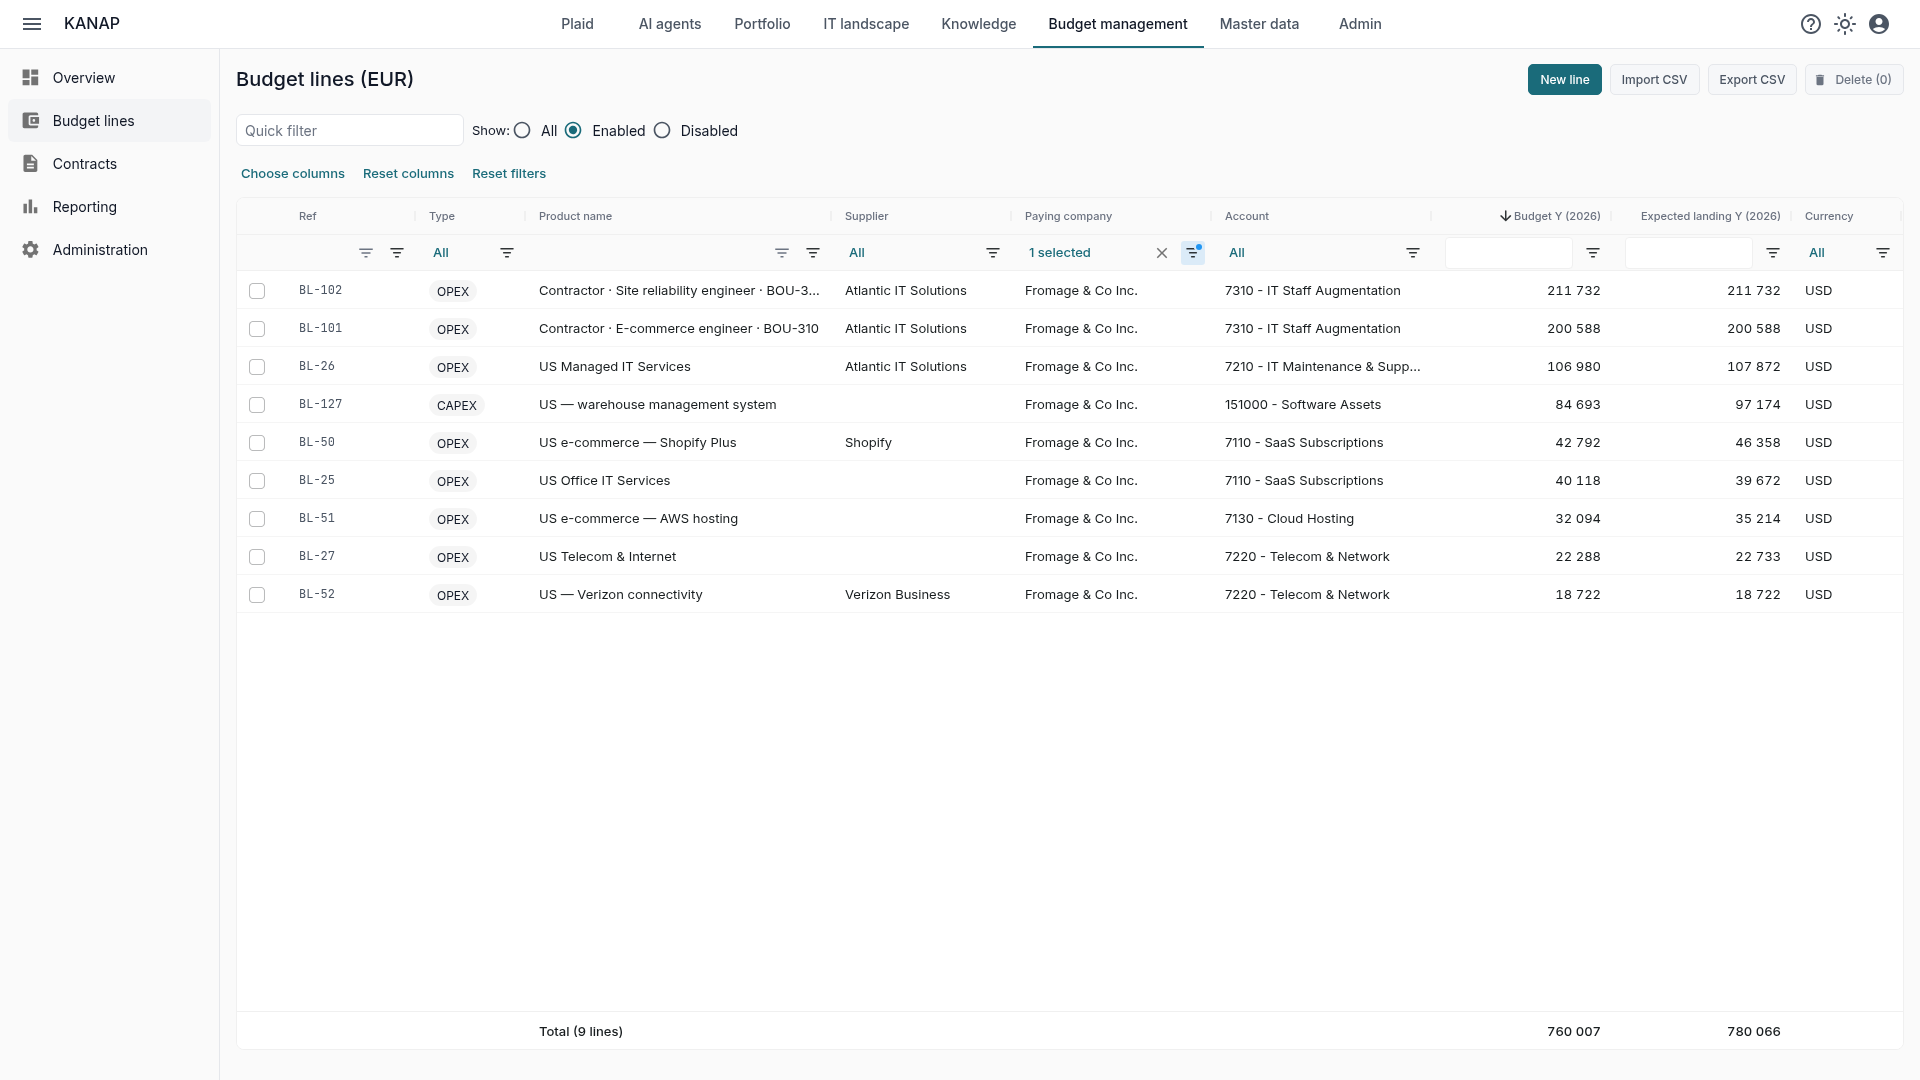
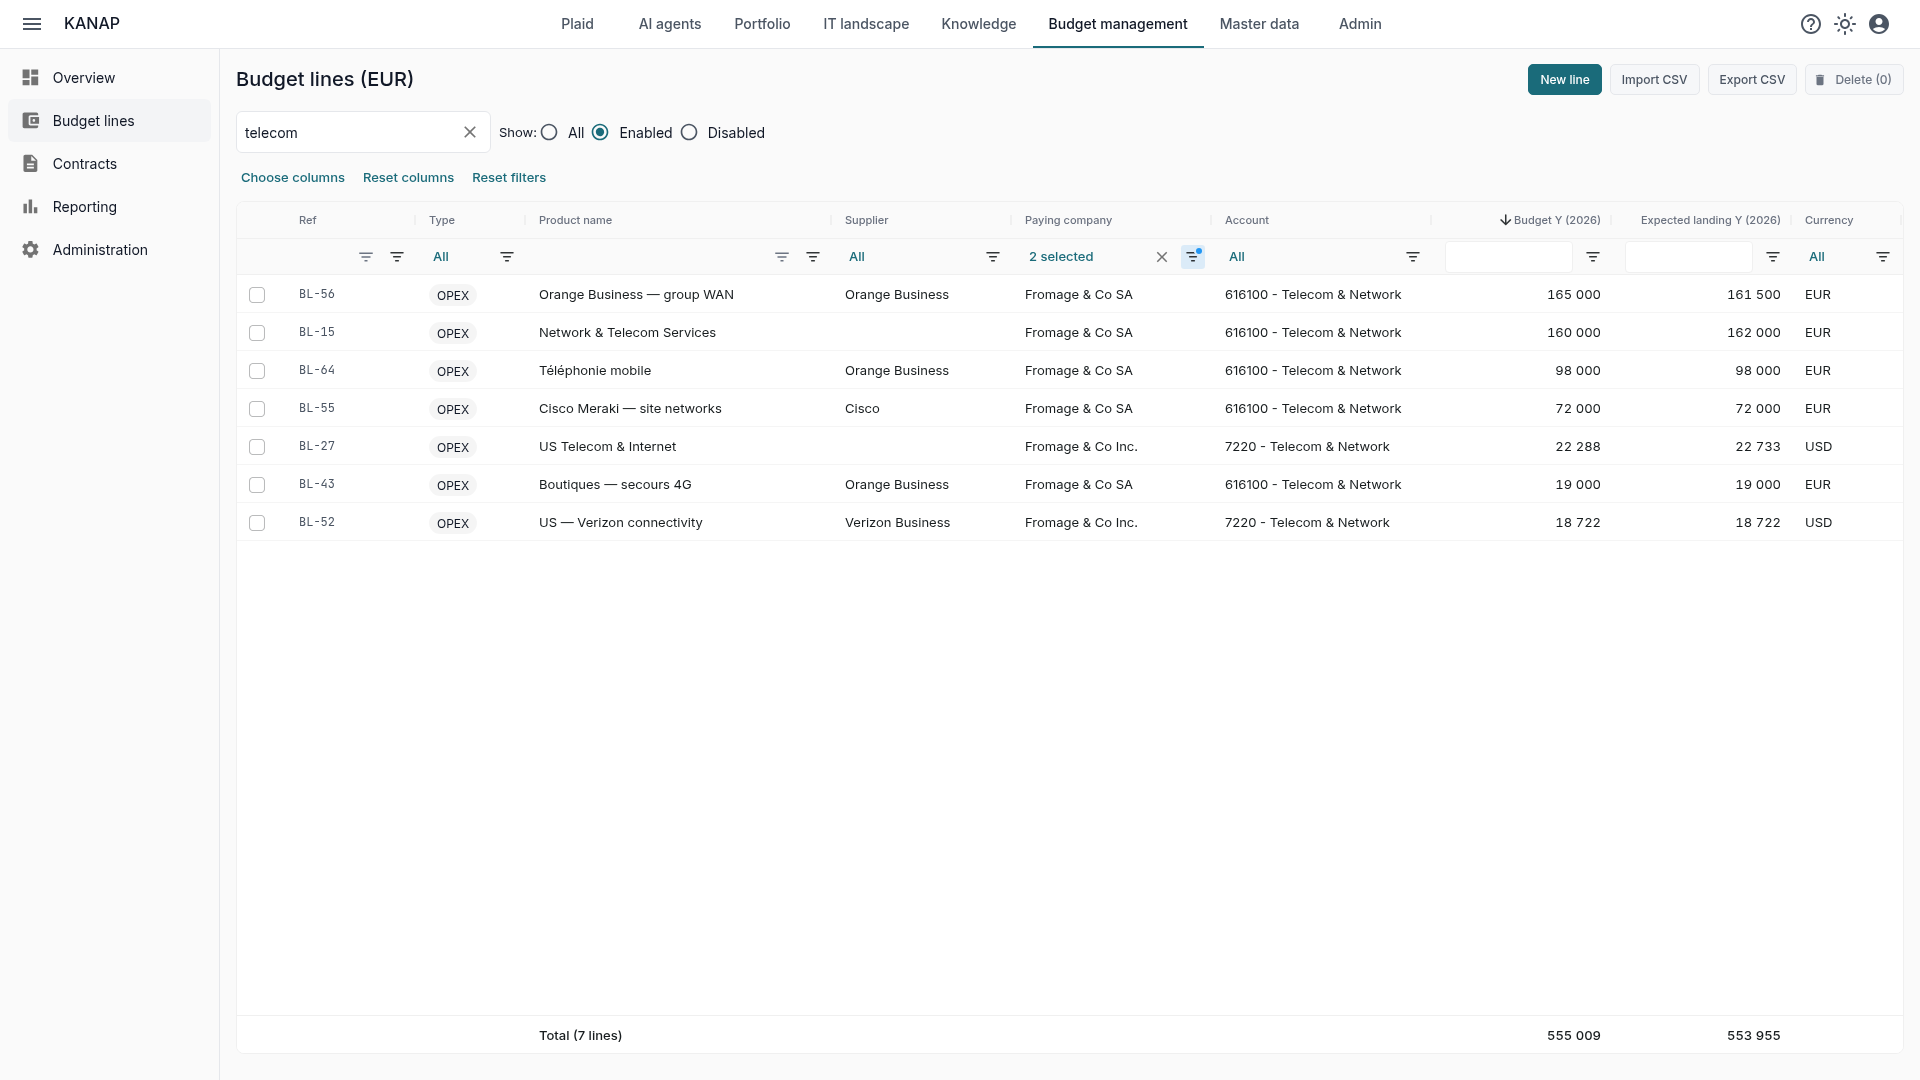
blog: currencies article, review fixes and new screenshots

diff --git a/marketing/web/src/content/blog/de/waehrungen-im-it-budget.md b/marketing/web/src/content/blog/de/waehrungen-im-it-budget.md
@@ -43,7 +43,7 @@ Das gilt für die gesamte Budgetverwaltung:
 
 Die Beträge werden so gespeichert, wie sie erfasst wurden. CSV-Exporte behalten die Währung jeder Zeile: Die Datei lässt sich ohne rückgängig zu machende Umrechnung wieder importieren oder auswerten.
 
-![Die Budgetzeilen gefiltert auf Fromage & Co Inc.: jede Zeile in Dollar erfasst, Beträge und Summe in Euro angezeigt](/screenshots/blog/currency-us-lines-2026-10-20.png)
+![Die Telekommunikationszeilen der Zentrale und der US-Tochter von Fromage & Co: Zeilen in Euro und in Dollar erfasst, Beträge und Summe in Euro angezeigt](/screenshots/blog/currency-us-lines-2026-10-20.png)
 
 ## Alles wird in der Währung der Gruppe konsolidiert
 
@@ -72,17 +72,17 @@ Viele Gruppen legen eigene Kurse für das Geschäftsjahr fest: die Budgetkurse d
 
 **Einen Kurs von Hand erfassen.** In der Kurstabelle öffnet ein Klick auf eine Zelle den Dialog **Manueller Wechselkurs**: Sie erfassen den Kurs Ihres Controllings für diese Währung und dieses Jahr. Er ersetzt den automatischen Kurs, bis Sie ihn entfernen, ist in der Tabelle mit einem Sternchen markiert, und jede Erfassung wird im Audit-Log protokolliert.
 
-**Die Kurse mit dem Budget einfrieren.** Ist das Budget genehmigt, friert das Einfrieren seiner Standardspalte auch die Kurse des Jahres ein. Die Beträge bleiben zum Kurssatz des Einfrierens umgerechnet, auch wenn neuere Kurse eintreffen. Ein Budget, das mit einem Dollar zu 0,92 € beschlossen wurde, ändert sich im Juni nicht, weil sich der Dollar bewegt hat. Siehe [den Artikel zum Reporting](/de/blog/it-budget-zur-genehmigung-vorlegen).
+**Die Kurse mit dem Budget einfrieren.** Ist das Budget genehmigt, friert das Einfrieren seiner Standardspalte auch die Kurse des Jahres ein. Die Beträge bleiben zum Kurssatz des Einfrierens umgerechnet, auch wenn neuere Kurse eintreffen. Ein Budget, das mit einem Dollar zu 0,92 € freigegeben wurde, ändert sich im Juni nicht, weil sich der Dollar bewegt hat. Siehe [den Artikel zum Reporting](/de/blog/it-budget-zur-genehmigung-vorlegen).
 
 ![Der Dialog Manueller Wechselkurs: der Kurs in Euro für einen Dollar, mit dem automatischen Kurs des Nachbarjahres als Anhaltspunkt](/screenshots/blog/currency-manual-rate-2026-10-20.png)
 
-## Fehler und Lücken sichtbar
+## Fehler und Lücken werden gemeldet
 
 Manchmal fehlt ein Kurs: eine seltene Währung oder ein vergangenes Jahr, das die Quellen noch nicht veröffentlicht haben. Eine Tabellenkalkulation rechnet den Betrag dann oft mit 1, und aus 100.000 Dollar werden 100.000 Euro, ohne dass es jemand merkt.
 
 KANAP tut das nie. Der Betrag wird aus den Summen des Jahres ausgeschlossen, und der Bildschirm sagt es: „3 Zeilen ohne Wechselkurs ausgeschlossen: USD 2026“, unter den Summen der Liste, in der Übersicht, oben in den Berichten, bei den Verträgen. In der Zeile selbst erscheint der Betrag dann in seiner eigenen Währung, mit einer orangen Markierung.
 
-KANAP holt den Kurs im Hintergrund, und die nächste Anzeige verwendet ihn, sobald eine Quelle ihn veröffentlicht. Veröffentlicht ihn keine, listet die Seite Währungen die fehlenden Kurse auf, und ein manueller Kurs löst die Frage sofort.
+KANAP holt den Kurs im Hintergrund, und die nächste Anzeige verwendet ihn, sobald eine Quelle ihn veröffentlicht. Veröffentlicht ihn keine oder hat Ihre Installation keinen Internetzugang, listet die Seite Währungen die fehlenden Kurse auf, und ein manueller Kurs löst die Frage sofort.
 
 ![Die Liste der Budgetzeilen mit einer Zeile ohne Wechselkurs: der Hinweis unter den Summen und die orange Markierung in der Zeile](/screenshots/blog/currency-missing-rate-2026-10-20.png)
 

diff --git a/marketing/web/src/content/blog/es/monedas-en-el-presupuesto-de-ti.md b/marketing/web/src/content/blog/es/monedas-en-el-presupuesto-de-ti.md
@@ -43,7 +43,7 @@ Esto vale para toda la gestión presupuestaria:
 
 Los importes se guardan tal como se introdujeron. Las exportaciones CSV conservan la moneda de cada línea: el archivo se reimporta o se analiza sin conversión que deshacer.
 
-![Las líneas presupuestarias filtradas en Fromage & Co Inc.: cada línea introducida en dólares, importes y total mostrados en euros](/screenshots/blog/currency-us-lines-2026-10-20.png)
+![Las líneas de telecomunicaciones de la sede y de la filial estadounidense de Fromage & Co: líneas introducidas en euros y en dólares, importes y total mostrados en euros](/screenshots/blog/currency-us-lines-2026-10-20.png)
 
 ## Todo se consolida en la moneda del grupo
 
@@ -72,17 +72,17 @@ Muchos grupos fijan sus propios tipos para el ejercicio: los tipos presupuestari
 
 **Introducir un tipo a mano.** En la tabla de tipos, un clic en una celda abre la ventana **Tipo de cambio manual**: introduce el tipo de su control de gestión para esa moneda y ese año. Sustituye al tipo automático hasta que usted lo retire, se marca con un asterisco en la tabla, y cada entrada queda registrada en el registro de auditoría.
 
-**Congelar los tipos con el presupuesto.** Una vez aprobado el presupuesto, congelar su columna predeterminada congela también los tipos del año. Los importes siguen convertidos con el juego de tipos de la congelación, aunque lleguen tipos más recientes. Un presupuesto aprobado con un dólar a 0,92 € no cambia en junio porque el dólar se haya movido. Vea [el artículo sobre el reporting](/es/blog/presentar-el-presupuesto-de-ti).
+**Congelar los tipos con el presupuesto.** Una vez aprobado el presupuesto, congelar su columna predeterminada congela también los tipos del año. Los importes siguen convertidos con el juego de tipos de la congelación, aunque lleguen tipos más recientes. Un presupuesto validado con un dólar a 0,92 € no cambia en junio porque el dólar se haya movido. Vea [el artículo sobre el reporting](/es/blog/presentar-el-presupuesto-de-ti).
 
 ![La ventana Tipo de cambio manual: el tipo en euros por un dólar, con el tipo automático del año vecino como referencia](/screenshots/blog/currency-manual-rate-2026-10-20.png)
 
-## Errores y carencias a la vista
+## Los errores y las carencias se señalan
 
 A veces falta un tipo: una moneda poco habitual, o un año pasado que las fuentes aún no han publicado. Una hoja de cálculo suele contar entonces el importe a 1, y 100 000 dólares se convierten en 100 000 euros sin que nadie lo vea.
 
 KANAP nunca hace eso. El importe se excluye de los totales del año, y la pantalla lo dice: «Se excluyen 3 líneas sin tipo de cambio: USD 2026», bajo los totales de la lista, en la vista general, en la parte superior de los informes, en los contratos. En la propia línea, el importe se muestra entonces en su propia moneda, con una marca naranja.
 
-KANAP busca el tipo en segundo plano, y la siguiente visualización lo usa en cuanto una fuente lo publica. Si ninguna lo publica, la página Monedas lista los tipos que faltan, y un tipo manual resuelve la cuestión al instante.
+KANAP busca el tipo en segundo plano, y la siguiente visualización lo usa en cuanto una fuente lo publica. Si ninguna lo publica o su instalación no tiene acceso a Internet, la página Monedas lista los tipos que faltan, y un tipo manual resuelve la cuestión al instante.
 
 ![La lista de líneas presupuestarias con una línea sin tipo de cambio: el aviso bajo los totales y la marca naranja en la línea](/screenshots/blog/currency-missing-rate-2026-10-20.png)
 

diff --git a/marketing/web/src/content/blog/fr/gerer-les-devises-dans-le-budget-it.md b/marketing/web/src/content/blog/fr/gerer-les-devises-dans-le-budget-it.md
@@ -43,7 +43,7 @@ Cela vaut pour toute la gestion budgétaire :
 
 Les montants sont enregistrés tels qu'ils ont été saisis. Les exports CSV gardent la devise de chaque ligne : le fichier se réimporte ou s'analyse sans conversion à défaire.
 
-![La liste des lignes budgétaires filtrée sur Fromage & Co Inc. : chaque ligne saisie en dollars, montants et total affichés en euros](/screenshots/blog/currency-us-lines-2026-10-20.png)
+![Les lignes télécoms du siège et de la filiale américaine de Fromage & Co : des lignes saisies en euros et en dollars, montants et total affichés en euros](/screenshots/blog/currency-us-lines-2026-10-20.png)
 
 ## Tout se consolide dans la devise du groupe
 
@@ -72,17 +72,17 @@ Beaucoup de groupes fixent leurs propres taux pour l'exercice : les taux budgét
 
 **Saisir un taux à la main.** Dans le tableau des taux, un clic sur une cellule ouvre la fenêtre **Taux de change manuel** : vous saisissez le taux de votre contrôle de gestion pour cette devise et cette année. Il remplace le taux automatique jusqu'à ce que vous le retiriez, il est marqué d'un astérisque dans le tableau, et chaque saisie est tracée dans le journal d'audit.
 
-**Figer les taux avec le budget.** Une fois le budget approuvé, geler sa colonne par défaut fige aussi les taux de l'année. Les montants restent convertis au jeu de taux du gel, même quand des taux plus récents arrivent. Un budget voté avec un dollar à 0,92 € ne change pas en juin parce que le dollar a bougé. Voir [l'article sur le reporting](/fr/blog/opex-budget-reporting).
+**Figer les taux avec le budget.** Une fois le budget approuvé, geler sa colonne par défaut fige aussi les taux de l'année. Les montants restent convertis au jeu de taux du gel, même quand des taux plus récents arrivent. Un budget validé avec un dollar à 0,92 € ne change pas en juin parce que le dollar a bougé. Voir [l'article sur le reporting](/fr/blog/opex-budget-reporting).
 
 ![La fenêtre Taux de change manuel : le taux en euros pour un dollar, avec le taux automatique de l'année voisine comme repère](/screenshots/blog/currency-manual-rate-2026-10-20.png)
 
-## Des erreurs ou manques visibles
+## Les erreurs ou manques sont signalés
 
 Il arrive qu'un taux manque : une devise peu courante, ou une année passée que les sources n'ont pas encore publiée. Un tableur compte alors souvent le montant pour 1, et 100 000 dollars deviennent 100 000 euros sans que personne ne le voie.
 
 KANAP ne fait jamais cela. Le montant est exclu des totaux de l'année, et l'écran le dit : « 3 lignes sans taux de change exclues : USD 2026 », sous les totaux de la liste, sur la vue d'ensemble, en haut des rapports, dans les contrats. Sur la ligne, le montant s'affiche alors dans sa propre devise, avec une marque orange.
 
-KANAP va chercher le taux en arrière-plan, et l'affichage suivant l'utilise dès qu'une source le publie. Si aucune ne le publie, la page Devises liste les taux manquants, et un taux manuel règle la question tout de suite.
+KANAP va chercher le taux en arrière-plan, et l'affichage suivant l'utilise dès qu'une source le publie. Si aucune ne le publie ou que votre installation n'a pas accès à Internet, la page Devises liste les taux manquants, et un taux manuel règle la question tout de suite.
 
 ![La liste des lignes budgétaires avec une ligne sans taux de change : l'avertissement sous les totaux et la marque orange sur la ligne](/screenshots/blog/currency-missing-rate-2026-10-20.png)
 

diff --git a/marketing/web/src/content/blog/en/managing-currencies-in-the-it-budget.md b/marketing/web/src/content/blog/en/managing-currencies-in-the-it-budget.md
@@ -43,7 +43,7 @@ This holds across budget management:
 
 Amounts are stored as they were entered. CSV exports keep each line's currency: the file can be reimported or analysed with no conversion to undo.
 
-![The budget lines filtered on Fromage & Co Inc.: each line entered in dollars, amounts and total shown in euros](/screenshots/blog/currency-us-lines-2026-10-20.png)
+![The telecom lines of Fromage & Co's headquarters and US subsidiary: lines entered in euros and in dollars, amounts and total shown in euros](/screenshots/blog/currency-us-lines-2026-10-20.png)
 
 ## Everything is consolidated in the group's currency
 
@@ -72,17 +72,17 @@ Many groups set their own rates for the fiscal year: the budget rates of financi
 
 **Enter a rate by hand.** In the rate table, a click on a cell opens the **Manual exchange rate** dialog: you enter your financial controllers' rate for that currency and that year. It replaces the automatic rate until you remove it, it is marked with an asterisk in the table, and every entry is recorded in the audit log.
 
-**Freeze the rates with the budget.** Once the budget is approved, freezing its default column also freezes that year's rates. Amounts stay converted at the rate set of the freeze, even when newer rates arrive. A budget approved with the dollar at €0.92 does not change in June because the dollar moved. See [the article on reporting](/blog/opex-budget-reporting).
+**Freeze the rates with the budget.** Once the budget is approved, freezing its default column also freezes that year's rates. Amounts stay converted at the rate set of the freeze, even when newer rates arrive. A budget signed off with the dollar at €0.92 does not change in June because the dollar moved. See [the article on reporting](/blog/opex-budget-reporting).
 
 ![The Manual exchange rate dialog: the rate in euros for one dollar, with the automatic rate of the neighbouring year as a reference](/screenshots/blog/currency-manual-rate-2026-10-20.png)
 
-## Errors and gaps in plain sight
+## Errors and gaps are flagged
 
 Sometimes a rate is missing: an uncommon currency, or a past year the sources have not published yet. A spreadsheet then often counts the amount at 1, and 100,000 dollars become 100,000 euros without anyone noticing.
 
 KANAP never does that. The amount is left out of that year's totals, and the screen says so: "Excluding 3 lines with no exchange rate: USD 2026", under the list totals, on the overview, at the top of the reports, in contracts. On the line itself, the amount is then shown in its own currency, with an orange mark.
 
-KANAP fetches the rate in the background, and the next display uses it as soon as a source publishes it. If none does, the Currencies page lists the missing rates, and a manual rate settles the matter at once.
+KANAP fetches the rate in the background, and the next display uses it as soon as a source publishes it. If none does, or if your installation has no internet access, the Currencies page lists the missing rates, and a manual rate settles the matter at once.
 
 ![The budget lines list with a line that has no exchange rate: the warning under the totals and the orange mark on the line](/screenshots/blog/currency-missing-rate-2026-10-20.png)
 
